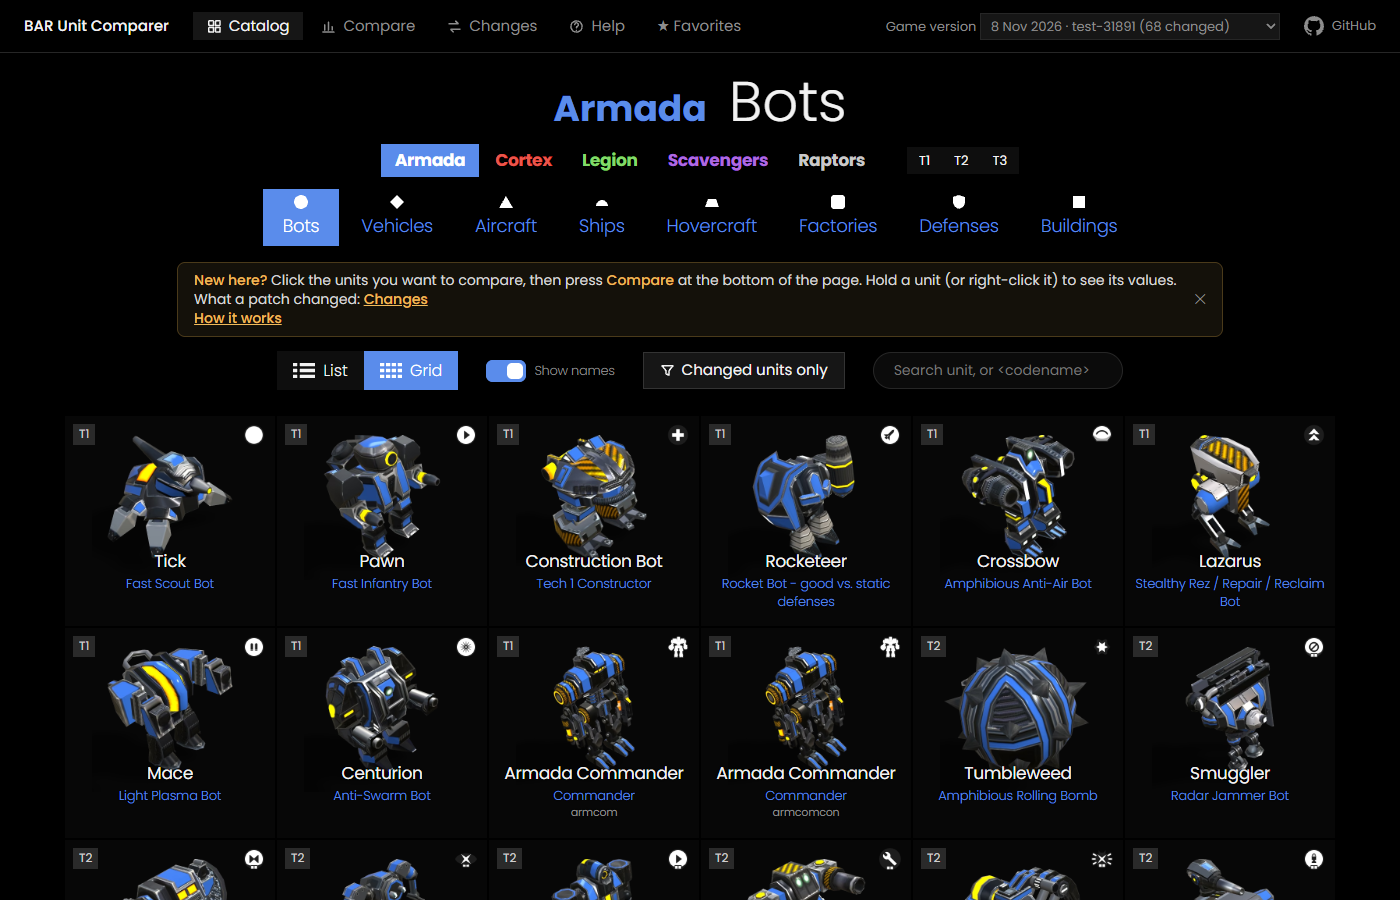
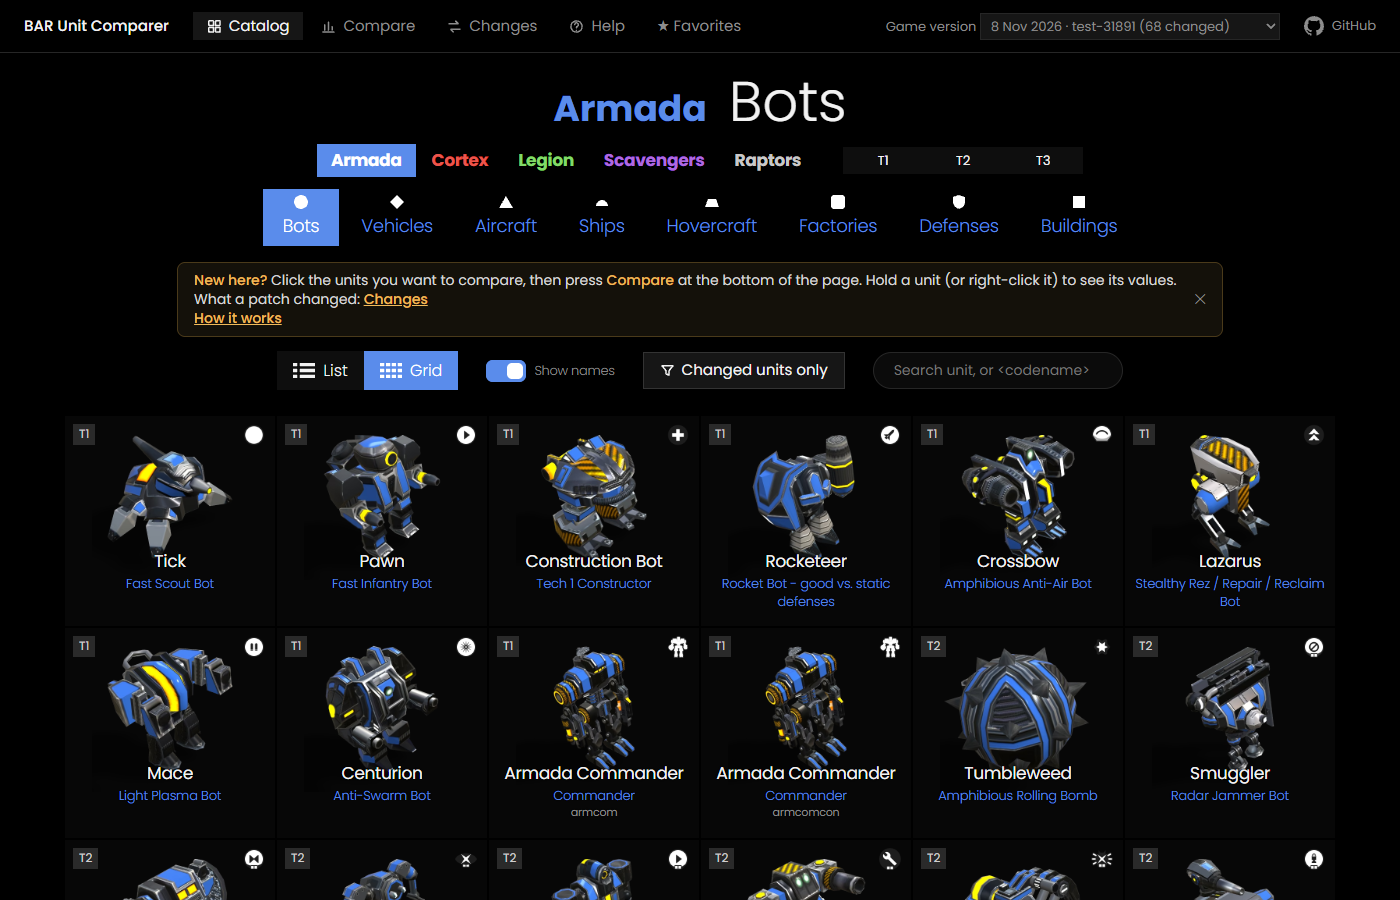
Wider tech level buttons: about 2.5 times as wide, the whole width in the unit selection
Claude-Session: https://claude.ai/code/session_01QeCYKoSgqsAqdpEWxxymXc

Changed region(s): [[0.215, 0.1556, 0.6143, 0.2178]]

diff --git a/website/style.css b/website/style.css
@@ -651,3 +651,9 @@ select.c-wpn.on:disabled { color: #a08a5a; border-color: #5a4a28; }
 .pill.w { border-style: dashed; }
 @media (max-width: 600px) { select.c-wpn { font-size: 11px; } .c-wrow { padding-right: 0; }
   .cmp-grid .c-head { flex-wrap: wrap; } .cmp-grid .c-head .c-wrow { order: 3; flex: 1 0 100%; margin-top: 4px; } select.c-wpn { min-height: 30px; } }   /* a line of its own below the faction and the buttons */
+
+/* the tech levels of the choice of units: wide buttons, easy to hit (catalog and Changes about 2.5 times as wide; the unit selection: the whole width) */
+.filt-row .seg.small button { min-width: 80px; justify-content: center; }
+.filt.small .filt-row .seg.small { flex: 1 0 100%; display: flex; }
+.filt.small .filt-row .seg.small button { flex: 1; min-width: 0; }
+@media (max-width: 600px) { .filt-row .seg.small button { min-width: 64px; } }
